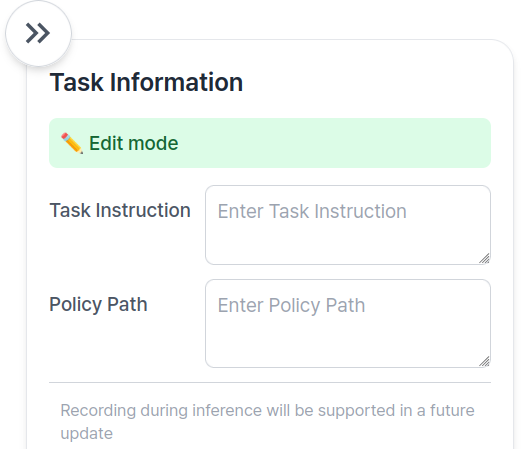
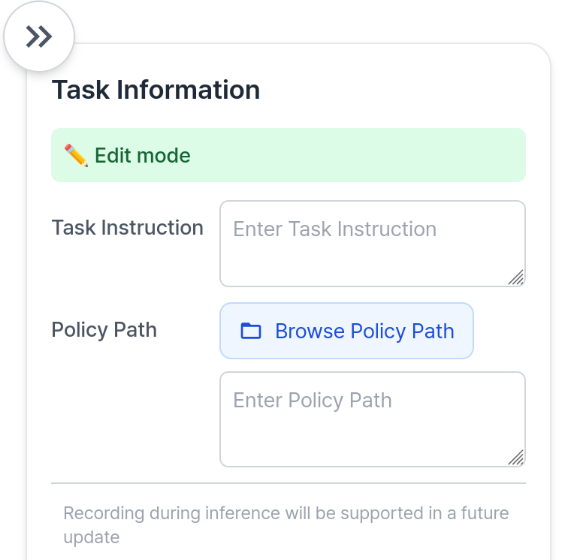
Add guidance for entering Policy Path in AI Worker & OMY documentation

diff --git a/docs/ai_worker/model_inference_ai_worker.md b/docs/ai_worker/model_inference_ai_worker.md
@@ -144,6 +144,16 @@ Enter **Task Instruction** and **Policy Path** in the **Task Info Panel**, locat
 | **Task Instruction** | A sentence that tells the robot what action to perform, such as `"pick and place object"`.|
 | **Policy Path** <br>`🐋 PHYSICAL AI TOOLS`| The **absolute** path to your trained model directory **inside the Docker container**(`🐋 PHYSICAL AI TOOLS`). This should point to the folder containing your trained model files such as `config.json`, `model.safetensors`, and `train_config.json`. <br>See the **Policy Path Example** below for reference. |
 
+::: tip
+**Entering Policy Path**
+
+You can either click the `Browse Policy Path` button to select the desired model folder, or directly enter the desired path in the text input field.
+
+ <img src="/imitation_learning/web_ui_inference_browse_button.png" alt="Web UI" style="width: 30%; ">
+ <br>
+ <img src="/imitation_learning/web_ui_inference_file_browse.png" alt="Web UI" style="width: 100%; ">
+:::
+
 ::: info
 **Policy Path Example**
 

diff --git a/docs/omy/model_inference_omy.md b/docs/omy/model_inference_omy.md
@@ -132,6 +132,16 @@ Enter **Task Instruction** and **Policy Path** in the **Task Info Panel**, locat
 | **Task Instruction** | A sentence that tells the robot what action to perform, such as `"pick and place object"`.|
 | **Policy Path** <br>`🐋 PHYSICAL AI TOOLS`| The **absolute** path to your trained model directory **inside the Docker container**(`🐋 PHYSICAL AI TOOLS`). This should point to the folder containing your trained model files such as `config.json`, `model.safetensors`, and `train_config.json`. <br>See the **Policy Path Example** below for reference. |
 
+::: tip
+**Entering Policy Path**
+
+You can either click the `Browse Policy Path` button to select the desired model folder, or directly enter the desired path in the text input field.
+
+ <img src="/imitation_learning/web_ui_inference_browse_button.png" alt="Web UI" style="width: 30%; ">
+ <br>
+ <img src="/imitation_learning/web_ui_inference_file_browse.png" alt="Web UI" style="width: 100%; ">
+:::
+
 ::: info
 **Policy Path Example**
 
